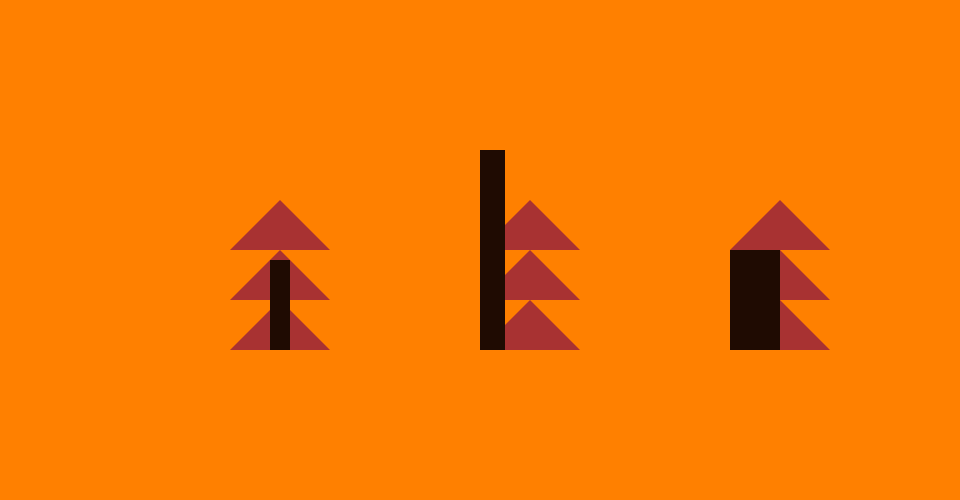
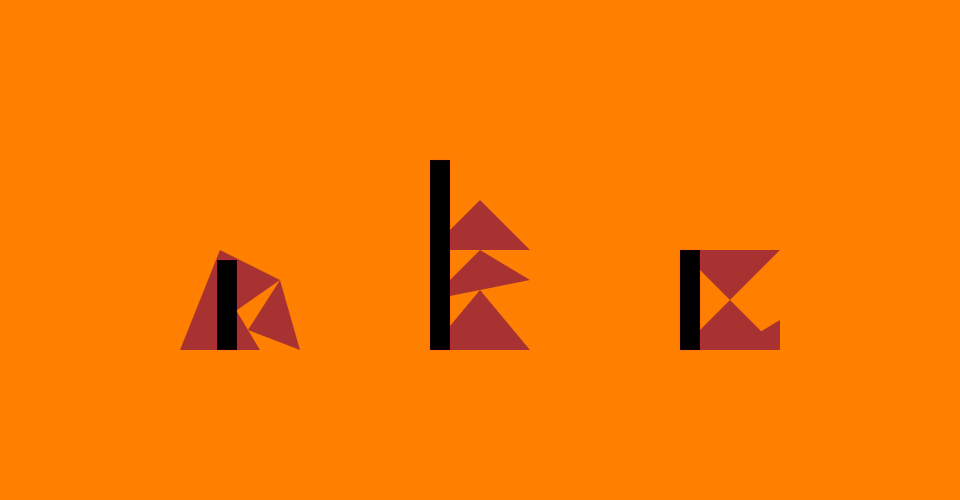
changed thumbnail

Changed region(s): [[0.4375, 0.3, 0.625, 0.72], [0.6875, 0.39, 0.875, 0.72], [0.1875, 0.39, 0.3438, 0.72]]

diff --git a/sketch.js b/sketch.js
@@ -165,9 +165,9 @@ function draw () {
   let center_y = canvasHeight / 2;
 
   // draw the letters A, B, C from saved data
-  drawLetter(center_x - 250, center_y, letterA);
-  drawLetter(center_x      , center_y, letterB);
-  drawLetter(center_x + 250, center_y, letterC);
+  drawLetter(center_x - 300, center_y, letterA);
+  drawLetter(center_x -50     , center_y, letterB);
+  drawLetter(center_x + 200, center_y, letterC);
 }
 
 function keyTyped() {
